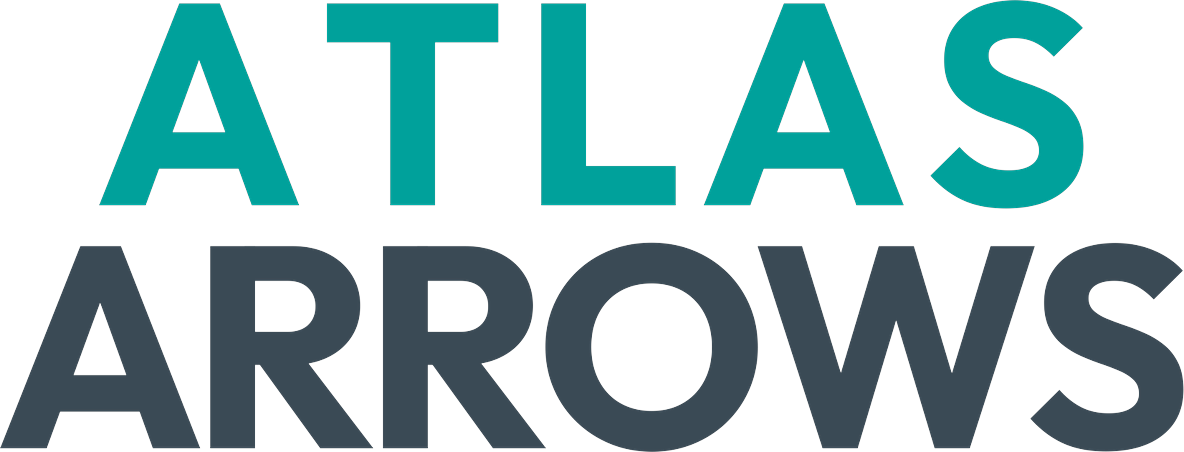
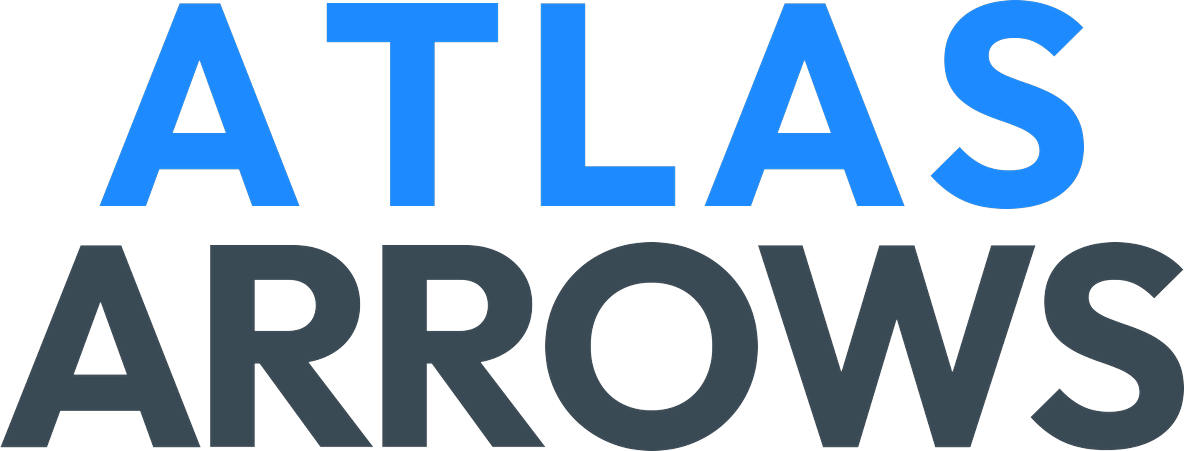
UI: 워드마크 accent도 여기어때 primary(#1D8BFF)로 변경
- build_wordmark.py ACCENT 파랑으로 교체 후 락업 PNG 재생성
- boot: wordmarkAccent 상수 + 로딩바 fill(barFill 명시)도 파랑으로
- colors.dart accent 설명 주석 최신화

Claude-Session: https://claude.ai/code/session_01W1BxLN6GQFKMdK8SiomPnQ

diff --git a/lib/app/tokens/colors.dart b/lib/app/tokens/colors.dart
@@ -3,10 +3,10 @@ import 'package:flutter/material.dart';
 /// Semantic color tokens for Atlas Arrows, resolved per theme via a
 /// [ThemeExtension]. Reach them with `AppColors.of(context)`.
 ///
-/// Identity: paper + ink. Off-white paper ground, teal-gray ink for the
-/// maze and headings, one mint accent for action, red for mistakes. The
-/// teal-gray (#3A4A55) and mint (#00A19B) are lifted from the Figma wordmark
-/// so the app matches its own store art. Two themes only — light and dark.
+/// Identity: paper + ink. White page ground, teal-gray ink for the
+/// maze and headings, one blue accent for action, red for mistakes. The
+/// teal-gray (#3A4A55) is lifted from the Figma wordmark; the accent is
+/// 여기어때 YDS Cyan 800 (#1D8BFF). Two themes only — light and dark.
 @immutable
 class AppColors extends ThemeExtension<AppColors> {
   const AppColors({

diff --git a/lib/app/boot.dart b/lib/app/boot.dart
@@ -26,8 +26,8 @@ import 'app_settings.dart';
 class AppBrand {
   const AppBrand._();
 
-  /// Lockup line 1. Also the loading bar fill.
-  static const Color wordmarkAccent = Color(0xFF00A19B);
+  /// Lockup line 1. Also the loading bar fill. 여기어때 YDS Cyan 800.
+  static const Color wordmarkAccent = Color(0xFF1D8BFF);
 
   /// Lockup line 2. Becomes the CTA background wherever the brand run needs one.
   static const Color wordmarkSlate = Color(0xFF3A4A55);
@@ -46,6 +46,9 @@ final kBootConfig = LoganLandBootConfig(
   // way and using the lockup's own second colour reaches 2.87:1 and leaves
   // the bar made of nothing but the two colours in the logo above it.
   barTrack: AppBrand.wordmarkSlate,
+  // Bar fill = lockup line 1 (the accent). Passed explicitly so it tracks
+  // AppBrand.wordmarkAccent instead of the kit's default mint.
+  barFill: AppBrand.wordmarkAccent,
   // The kit draws this before any localisation exists, so it reads the
   // platform locale directly instead of the app's l10n.
   captionBuilder: (percent) {

diff --git a/tools/atlas/build_wordmark.py b/tools/atlas/build_wordmark.py
@@ -14,8 +14,8 @@ from PIL import Image, ImageDraw, ImageFont
 FONT = "assets/fonts/Outfit-Bold.ttf"  # the Figma file's weight
 OUT = "assets/images/brand/atlas_arrows_wordmark.png"
 
-# Colours are the kit's published values, held until the app is given its own.
-ACCENT = (0x00, 0xA1, 0x9B)  # top line -- also the progress bar fill
+# Top line is the app accent (여기어때 YDS Cyan 800); slate is the kit value.
+ACCENT = (0x1D, 0x8B, 0xFF)  # top line -- also the progress bar fill
 SLATE = (0x3A, 0x4A, 0x55)  # bottom line -- also the CTA background
 
 # Rendered oversized, then downsampled: the tracking below is wide enough that